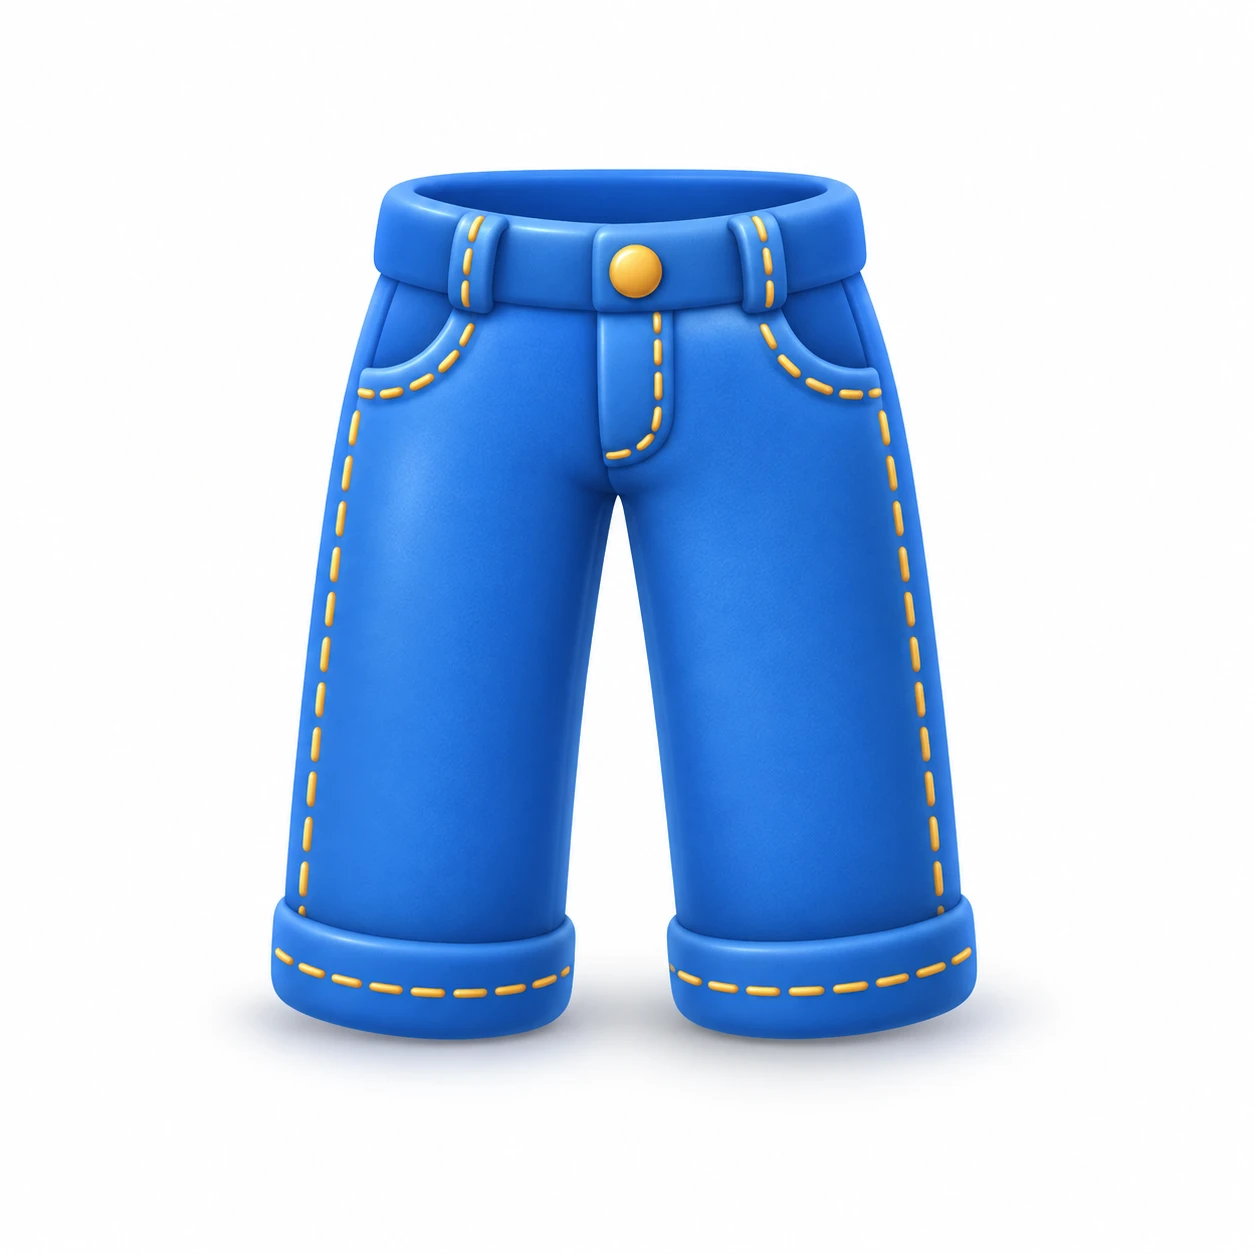
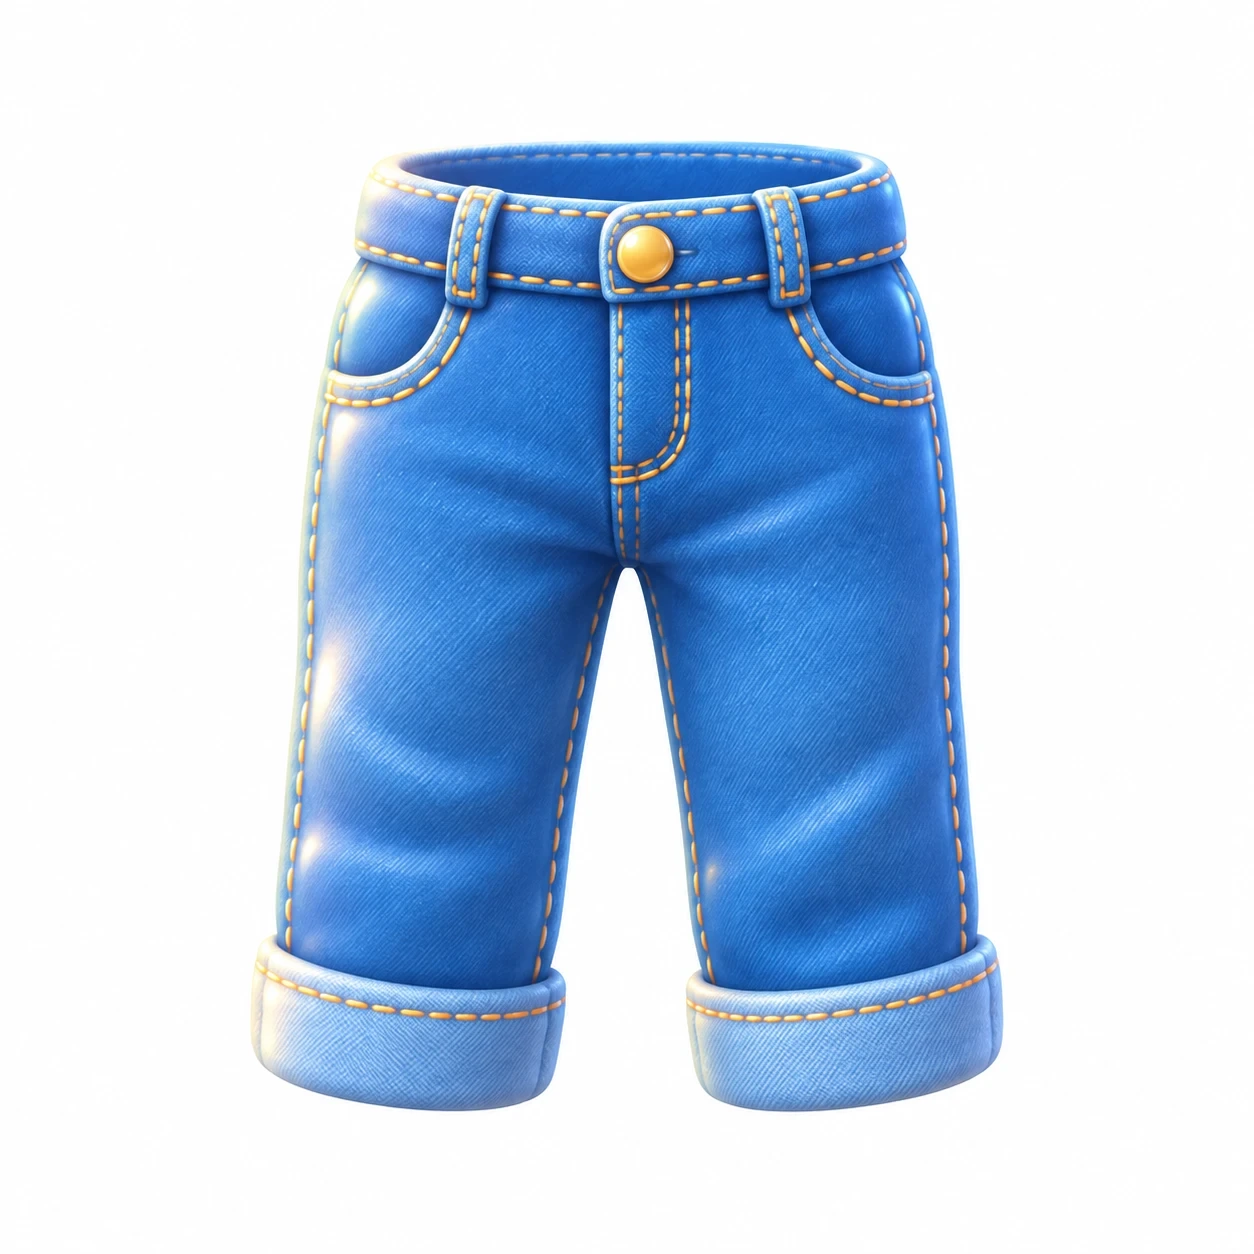
4-6: следы к пещере, джинсы и ботинки без запечённой тени
Джинсы и ботинки перерисованы Анной — под ними больше нет серой тени,
которая совпадала по цвету с самой вещью и не вырезалась никакими
порогами. Фон срезается начисто.

Следы драконьи, три пальца с когтями. Показываются на том же экране,
что и заваленная пещера: реплика ровно про это («следы ведут к пещере,
а вход завален камнем»), а отдельным экраном пришлось бы завести новую
дорожку и сдвинуть всю нумерацию — перед записью озвучки это дорого.
Сюжетный экран теперь умеет показать несколько картинок (`pics`).

Claude-Session: https://claude.ai/code/session_01F8Ku32rN8SvpondWNMohMi

Changed region(s): [[0.1866, 0.0933, 0.8086, 0.9019]]

diff --git a/tools/kids46_page.html b/tools/kids46_page.html
@@ -711,7 +711,10 @@ function showNextLater(ms){
   setTimeout(() => { if (mine === token) btnNext.hidden = false; }, ms);
 }
 RENDER.story = function(s){
-  if (!s.solo) content.appendChild(picArea([IMG[s.pic]]));
+  /* pics — когда реплика про две вещи сразу: «следы ведут к пещере, а вход
+     завален камнем». Отдельным экраном это было бы лишней дорожкой. */
+  if (s.pics) content.appendChild(picArea(s.pics.map(k => IMG[k]), "items"));
+  else if (!s.solo) content.appendChild(picArea([IMG[s.pic]]));
   showNextLater(2000);
   ru(s.ru);
 };

diff --git a/tools/build_kids46.py b/tools/build_kids46.py
@@ -209,6 +209,7 @@ BASE = {            # имя: (файл, ширина, резать ли фон)
     "stone":         ("stone.webp",                560, True),
     "cloudlet":      ("cloudlet.webp",             560, True),
     "egg":           ("egg.webp",                 1000, True),
+    "tracks":        ("tracks.webp",             1000, True),
     "cave_closed":   ("cave-closed.webp",         1000, True),
     "cave_egg":      ("cave-egg.webp",            1000, True),
     "bunny":         ("animal-bunny.webp",         700, True),
@@ -620,6 +621,8 @@ def main():
             for k in ("pic", "who"):
                 if s.get(k):
                     need(s[k])
+            for k in s.get("pics", []):
+                need(k)
             if s["t"] == "collect":
                 need(s["target"])
             for thing in ([s["thing"]] if "thing" in s else []):

diff --git a/tools/kids46_lessons.py b/tools/kids46_lessons.py
@@ -359,7 +359,7 @@ L3 = {
          "tone": "спокойно, с гордостью"},
 
         # ── сюжет ──
-        {"t": "story", "pic": "cave_closed",
+        {"t": "story", "pics": ["tracks", "cave_closed"],
          "text": "Ой, смотри! Следы ведут к пещере. А вход завален камнем. "
                  "Одному не сдвинуть… Хорошо, что с нами друзья!",
          "tone": "загадочно, потом с усилием"},
